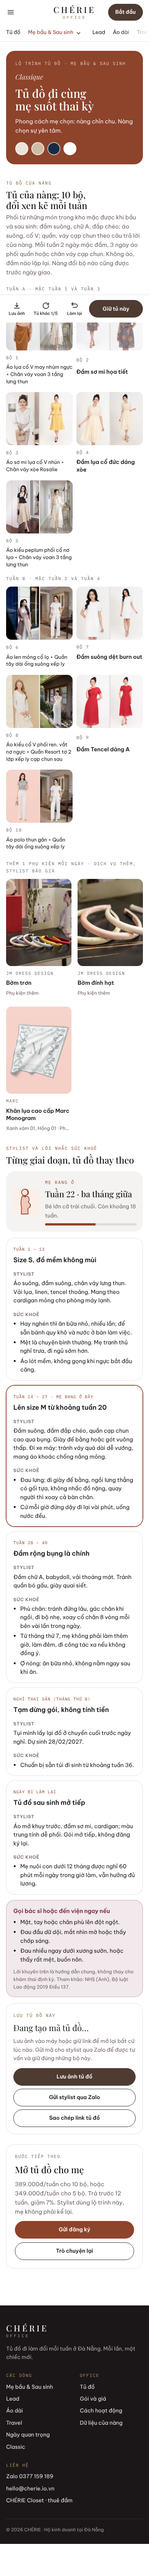
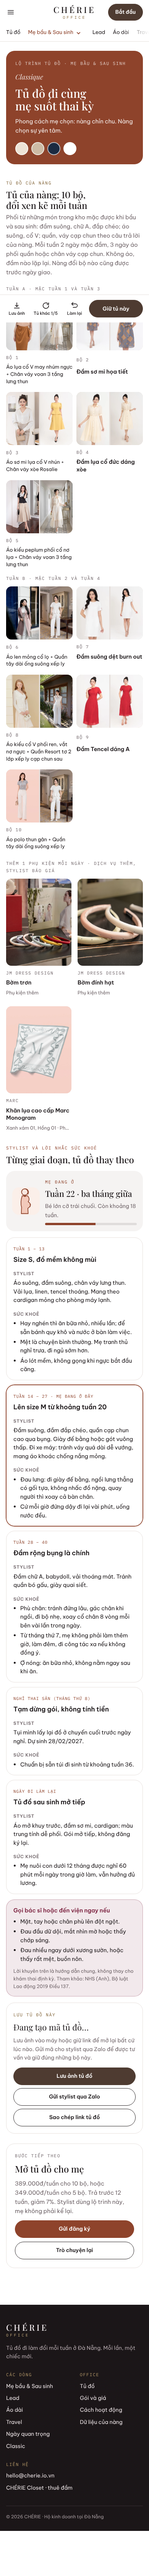
/mom: sửa bìa vỡ (trùng lớp .deck), ảnh nét 1400px, bìa chữ trên nền giấy; gỡ số Zalo khỏi trang chính
Claude-Session: https://claude.ai/code/session_01222c8SJd7WhSQqiWbhbLVs

diff --git a/404.html b/404.html
@@ -701,7 +701,7 @@ footer .base{margin-top:36px;padding-top:18px;border-top:1px solid #3A3033;font-
 <p>Khi nàng làm trắc nghiệm hay xem tủ đồ, CHÉRIE Office ghi lại câu trả lời và các thao tác trên trang (xem món nào, dừng ở câu nào, bấm nút nào). Phần này lưu ẩn danh bằng một mã ngẫu nhiên trên trình duyệt, không có tên hay số điện thoại.</p>
 <p style="margin-top:12px">Tụi mình dùng nó để chọn tủ đồ hợp với nàng hơn, biết món nào cần mua thêm, câu hỏi nào khó hiểu, và giá gói nào hợp lý.</p>
 <p style="margin-top:12px">Tên và số Zalo chỉ được lưu khi nàng tự để lại và đồng ý, hoặc khi đăng ký gói. Tụi mình không bán hay chia sẻ dữ liệu cho bên ngoài, và không gửi tin nhắn tự động khi chưa có người của tiệm xem.</p>
-<p style="margin-top:12px">Dữ liệu ẩn danh được giữ tối đa 24 tháng. Muốn xem hoặc xoá dữ liệu của mình, nhắn Zalo 0377 159 189 hoặc email hello@cherie.io.vn.</p>
+<p style="margin-top:12px">Dữ liệu ẩn danh được giữ tối đa 24 tháng. Muốn xem hoặc xoá dữ liệu của mình, email hello@cherie.io.vn.</p>
 </div></main>
 
 <!-- ============ GÓI VÀ GIÁ ============ -->
@@ -773,7 +773,7 @@ footer .base{margin-top:36px;padding-top:18px;border-top:1px solid #3A3033;font-
       <div class="c"><a class="logo" href="#" style="align-items:flex-start"><span class="w" style="color:#F2ECEE">CHÉRIE</span><span class="s" style="color:#C9AE7E">OFFICE</span></a><p style="color:#B3A8AC;max-width:28em;margin-top:8px">Tủ đồ đi làm đổi mỗi tuần ở Đà Nẵng. Mỗi lần, một chiếc mới.</p></div>
       <div class="c"><span class="k">Các dòng</span><div id="footLines" style="display:grid;gap:9px"></div></div>
       <div class="c"><span class="k">Office</span><a href="#tu-do">Tủ đồ</a><a href="#goi-va-gia">Gói và giá</a><a href="#cach-hoat-dong">Cách hoạt động</a><a href="#chinh-sach">Dữ liệu của nàng</a></div>
-      <div class="c"><span class="k">Liên hệ</span><span class="num">Zalo 0377 159 189</span><span>hello@cherie.io.vn</span><a href="https://cherie.io.vn" target="_blank" rel="noopener">CHÉRIE Closet · thuê đầm</a></div>
+      <div class="c"><span class="k">Liên hệ</span><span>hello@cherie.io.vn</span><a href="https://cherie.io.vn" target="_blank" rel="noopener">CHÉRIE Closet · thuê đầm</a></div>
     </div>
     <div class="base">© 2026 CHÉRIE · Hộ kinh doanh tại Đà Nẵng</div>
   </div>
@@ -832,7 +832,7 @@ function makeTuImage(c){
       g.fillStyle=esp;g.font="600 22px "+B;g.fillText("Bộ "+(i+1)+(bo.length===10?(i<5?" · Tuần A":" · Tuần B"):""),x,y+ih+34);
       g.fillStyle=mut;g.font="400 19px "+B;wrapTxt(g,o.map(function(s){return s.ten}).join(" + "),x,y+ih+64,cw,26,2)});
     g.textAlign="center";g.fillStyle=esp;g.font="italic 400 28px "+D;g.fillText("Mỗi lần, một chiếc mới.",W/2,H-78);
-    g.fillStyle=mut;g.font="400 20px "+B;g.fillText("office.cherie.io.vn · Zalo 0377 159 189",W/2,H-42);
+    g.fillStyle=mut;g.font="400 20px "+B;g.fillText("office.cherie.io.vn",W/2,H-42);
     return new Promise(function(ok){cv.toBlob(function(b){ok(b)},"image/jpeg",0.9)})})}
 function saveTuImage(c){
   saveMsg("Đang tạo ảnh tủ đồ…");
@@ -936,7 +936,7 @@ function momMenu(open){var m=$("#momMenu"),b=$("#momDdb");if(!m||!b)return;if(op
   if(open){var r=b.getBoundingClientRect(),w=Math.min(300,innerWidth-24);m.style.width=w+"px";m.style.top=(r.bottom+6)+"px";m.style.left=Math.max(12,Math.min(innerWidth-w-12,r.right-w/2-10))+"px"}}
 function renderChrome(){
   $("#catNav").innerHTML='<a href="#tu-do" data-nav="tu-do">Tủ đồ</a>'+LINES.map(function(l){return l.mom?'<a href="#nhom-'+l.slug+'" data-nav="nhom-'+l.slug+'" class="mom">'+esc(l.k)+'</a><button type="button" class="ddb" id="momDdb" aria-expanded="false" aria-controls="momMenu" aria-label="Mục con của Mẹ bầu &amp; Sau sinh"><svg viewBox="0 0 12 12" aria-hidden="true"><path d="M2.5 4.5 6 8l3.5-3.5" fill="none" stroke="currentColor" stroke-width="1.6" stroke-linecap="round"/></svg></button>':'<a href="#nhom-'+l.slug+'" data-nav="nhom-'+l.slug+'">'+esc(l.k)+'</a>'}).join("")+'<a href="#goi-va-gia" data-nav="goi-va-gia">Gói và giá</a>';
-  $("#drawerLinks").innerHTML='<a href="#">Trang chủ</a><a href="#tu-do">Tủ đồ</a>'+LINES.map(function(l){return '<a href="#nhom-'+l.slug+'"'+(l.mom?' class="mom"':'')+'>'+esc(l.k)+'</a>'+(l.mom?MOM_SUB.map(function(x){return '<a class="sub" href="'+x[0]+'">'+x[1]+'</a>'}).join(""):"")}).join("")+'<a href="#goi-va-gia">Gói và giá</a>'+'<a href="#cach-hoat-dong">Cách hoạt động</a><a href="#chinh-sach">Dữ liệu của nàng</a><div class="dcta"><a class="pill" href="#chon-nhom">Tìm tủ đồ của nàng</a><a class="pill ghost" href="https://zalo.me/0377159189" target="_blank" rel="noopener">Nhắn Zalo 0377 159 189</a></div>';drawerSaved();
+  $("#drawerLinks").innerHTML='<a href="#">Trang chủ</a><a href="#tu-do">Tủ đồ</a>'+LINES.map(function(l){return '<a href="#nhom-'+l.slug+'"'+(l.mom?' class="mom"':'')+'>'+esc(l.k)+'</a>'+(l.mom?MOM_SUB.map(function(x){return '<a class="sub" href="'+x[0]+'">'+x[1]+'</a>'}).join(""):"")}).join("")+'<a href="#goi-va-gia">Gói và giá</a>'+'<a href="#cach-hoat-dong">Cách hoạt động</a><a href="#chinh-sach">Dữ liệu của nàng</a><div class="dcta"><a class="pill" href="#chon-nhom">Tìm tủ đồ của nàng</a></div>';drawerSaved();
   $("#footLines").innerHTML=LINES.map(function(l){return '<a href="#nhom-'+l.slug+'">'+esc(l.k)+'</a>'}).join("");
   var words=["Giặt hấp hằng tuần","Giao văn phòng miễn phí","Đổi size trong 48 giờ","Tag đếm số lần mặc","Stylist chọn theo gu","Mỗi lần, một chiếc mới"];
   var one=words.map(function(w){return '<span>'+esc(w)+'</span><i>·</i>'}).join("");$("#marq").innerHTML=one+one;
@@ -970,7 +970,7 @@ function faq(l){
     ["Giao ở đâu?","Văn phòng khu trung tâm Đà Nẵng sáng thứ 2, miễn phí. Hoặc nhà riêng chiều chủ nhật, 35.000đ/tuần khu trung tâm."],
     ["Làm hư đồ thì sao?","Vết bẩn thường, sứt chỉ: tụi mình lo. Rách lớn hoặc mất: tính theo giá trị bồi thường ghi trên tag, trừ vào cọc."]];
   if(l.mom)base.unshift(["Bụng lớn nhanh quá thì sao?","Nhắn Zalo cho tụi mình. Size mới tới ở chuyến giao kế tiếp, không tính thêm tiền."],["Nghỉ sinh có phải trả tiền không?","Không. Mẹ trả đồ và tạm dừng gói. Khi đi làm lại, gói mở tiếp với tủ đồ sau sinh."]);
-  if(!l.monthly)base.splice(1,1,["Đặt thế nào?","Làm trắc nghiệm ngắn rồi gửi đăng ký, hoặc nhắn Zalo 0377 159 189 kèm ngày cần đồ."]);
+  if(!l.monthly)base.splice(1,1,["Đặt thế nào?","Làm trắc nghiệm ngắn rồi gửi đăng ký kèm ngày cần đồ. Stylist liên hệ lại trong ngày."]);
   return base}
 
 /* ---------- trắc nghiệm phong cách (5 dòng, không áp dụng Mẹ bầu & Sau sinh) ----------
@@ -1254,7 +1254,7 @@ function offerHtml(l,a){
   alt.push(['Thuê thử 1 set trước','Ngày quan trọng · từ 199.000đ/set','Mặc thử chất lượng đồ và cách tụi mình giặt hấp cho một buổi họp, phỏng vấn. Thấy ổn rồi mở gói tuần, trừ lại 199.000đ.','#nhom-ngay-quan-trong']);
   if(l.k!=="Áo dài"&&(a.nganh==="Ngân hàng, tài chính"||a.nganh==="Giáo viên, giảng viên"||a.nganh==="Cơ quan nhà nước"))alt.push(['Chỉ cần đồ thứ 2','Áo dài · 139.000đ/tuần · 1 bộ','Nơi làm mặc áo dài đầu tuần thì gói này nhẹ hơn nhiều.','#nhom-ao-dai']);
   if((a.doiSong||[]).indexOf("Hay đi công tác")>-1)alt.push(['Chỉ cần cho chuyến công tác','Travel · 690.000đ/chuyến 5 ngày','Trọn vali cho một chuyến, trả lại khi về.','#nhom-travel']);
-  alt.push(['Rủ đồng nghiệp cùng tòa nhà','Nhóm 3 người · giảm 10% mỗi người','Một tuyến giao chung nên tụi mình bớt được chi phí. Nhắn Zalo để giữ suất nhóm.','https://zalo.me/0377159189']);
+  alt.push(['Rủ đồng nghiệp cùng tòa nhà','Nhóm 3 người · giảm 10% mỗi người','Một tuyến giao chung nên tụi mình bớt được chi phí. Ghi tên đồng nghiệp khi đăng ký để giữ suất nhóm.','#dang-ky']);
   return '<div class="cta-box"><span class="k muted">Bước tiếp theo</span><h2>Giữ trọn tủ '+esc(l.k)+' này</h2><p class="muted">'+vnd(l.price)+' '+esc(l.unit)+(l.monthly?'. Trả trước 12 tuần, giảm 7%. Tuần đầu giao đúng các bộ bên trên.':'.')+'</p>'+
     '<div class="row"><a class="pill" href="#dang-ky" data-su="giu_tu">Giữ tủ này</a><button type="button" class="pill ghost" id="priceWorry" aria-expanded="false" aria-controls="altBox">Giá hơi cao với mình</button></div>'+
     '<div id="altBox" hidden><p style="margin-top:6px">Tụi mình hiểu. Nàng có thể bắt đầu nhẹ hơn:</p><div class="alts">'+alt.map(function(x){return '<a class="alt" href="'+x[3]+'"'+(x[4]?' data-pick="'+esc(x[4])+'"'+(x[5]?' data-goi="'+x[5]+'"':''):'')+(/^https/.test(x[3])?' target="_blank" rel="noopener"':'')+'><b>'+esc(x[0])+'</b><span class="k" style="color:var(--gold)">'+esc(x[1])+'</span><span class="muted">'+esc(x[2])+'</span></a>'}).join("")+'</div></div></div>'}
@@ -1474,7 +1474,7 @@ function openSaved(ma,xem){
     h+=bo.length?capsuleHtml(l,{bo:bo,N:boSize(l)===10&&bo.length===10?10:bo.length,mua:mua,muon:false,pk:[]}):'<p class="muted" style="margin-top:20px">Những món trong tủ này không còn trong kho. Nhắn stylist để chọn lại nhé.</p>';
     h+='<div class="cta-box"><span class="k muted">Bước tiếp theo</span><h2>Giữ tủ '+esc(l.k)+' này</h2><div class="row"><a class="pill" href="#dang-ky" data-su="giu_tu" data-pick="'+esc(l.k)+'">Giữ tủ này</a><a class="pill ghost" href="#chan-doan-'+(l.mom?"me":l.slug)+'">Làm lại trắc nghiệm</a></div></div>';
     $("#res").innerHTML=h})
-  .catch(function(e){$("#res").innerHTML='<h1>Chưa mở được tủ đồ</h1><p class="muted">'+esc(e.message||"Mạng chậm")+'. Thử tải lại trang, hoặc nhắn Zalo 0377 159 189 kèm mã '+esc(ma)+'.</p><p style="margin-top:16px"><a class="pill" href="'+ZALO+'" target="_blank" rel="noopener">Nhắn Zalo</a></p>'})}
+  .catch(function(e){$("#res").innerHTML='<h1>Chưa mở được tủ đồ</h1><p class="muted">'+esc(e.message||"Mạng chậm")+'. Thử tải lại trang sau ít phút. Mã tủ đồ của nàng: '+esc(ma)+'.</p><p style="margin-top:16px"><button type="button" class="pill" onclick="location.reload()">Tải lại trang</button></p>'})}
 function renderMomResult(r){
   var T=TYPES[r.type]||TYPES["Mềm mại"],a=r.a,plan=momPlan(a);
   var h='<div class="typecard" style="background:#8E432B"><span class="k" style="color:rgba(255,255,255,.75)">Lộ trình tủ đồ · Mẹ bầu &amp; Sau sinh</span><span class="fr-name">'+esc(T.fr)+'</span><h1>'+esc(a.giaiDoan==="Đang mang bầu"?"Tủ đồ đi cùng mẹ suốt thai kỳ":"Tủ đồ cho ngày mẹ quay lại công sở")+'</h1><p>Phong cách mẹ chọn: '+esc(T.ten.replace("Nàng","nàng").toLowerCase())+'. '+esc(T.mo.split(":")[0])+'.</p><div class="pal">'+T.pal.map(function(c){return '<i style="background:'+c+'"></i>'}).join("")+'</div></div>';
@@ -1501,7 +1501,7 @@ document.addEventListener("click",function(e){var rd=e.target.closest("[data-red
 function onSaveClick(e){var sv=e.target.closest("[data-save]");if(sv&&CUR){var k=sv.dataset.save,c=CUR,sk=function(v){post({fn:"webSuKien",vid:VID,maKQ:c.ma||"",su:"luu_tu",giaTri:v,trang:location.hash.slice(1,40)}).catch(function(){})};
     if(k==="anh"){saveTuImage(c);remember(c);sk("Ảnh")}
     else if(k==="link"){copyText(tuLink(c.ma,c.xem)).then(function(){saveMsg("Đã sao chép link. Dán vào Ghi chú hoặc gửi cho chính mình qua Zalo để mở lại.")},function(){saveMsg(tuLink(c.ma,c.xem))});remember(c);sk("Link")}
-    else if(k==="zalo"){var t="Chào CHÉRIE, mình vừa có tủ đồ mã "+c.ma+" (dòng "+c.dong+"). Nhờ stylist tư vấn giúp mình: "+tuLink(c.ma,c.xem);var w=window.open(ZALO,"_blank","noopener");copyText(t).then(function(){saveMsg("Đã chép sẵn lời nhắn kèm mã "+c.ma+". Mở Zalo rồi dán vào khung chat là xong.")},function(){saveMsg("Nhắn Zalo 0377 159 189 kèm mã "+c.ma+".")});remember(c);sk("Zalo")}
+    else if(k==="zalo"){var t="Chào CHÉRIE, mình vừa có tủ đồ mã "+c.ma+" (dòng "+c.dong+"). Nhờ stylist tư vấn giúp mình: "+tuLink(c.ma,c.xem);var w=window.open(ZALO,"_blank","noopener");copyText(t).then(function(){saveMsg("Đã chép sẵn lời nhắn kèm mã "+c.ma+". Mở Zalo rồi dán vào khung chat là xong.")},function(){saveMsg("Mở Zalo CHÉRIE rồi gửi kèm mã "+c.ma+".")});remember(c);sk("Zalo")}
     return true}
   if(e.target.closest("[data-su=giu_tu]")){suKien("giu_tu");if(CUR)ss("of-tu-chon",{ma:CUR.ma||"",xem:CUR.xem||"",dong:CUR.dong,bo:boStr(CUR.bo)})}}
 $("#sbar").addEventListener("click",function(e){if(!location.hash.match(/^#(ket-qua|tu-)/))return;if(e.target.closest("[data-save]")&&!$("#saveBar")){return}onSaveClick(e)});
@@ -1514,7 +1514,7 @@ function detail(id){track("xem_mon",id);
   $("#pd").innerHTML='<div><a class="backlink" href="#tu-do">← Quay lại tủ đồ</a><div class="gal">'+shots+'</div>'+(p.length>1?'<div class="galnav rnav" style="margin-top:10px"><button type="button" data-gal="-1" aria-label="Ảnh trước"><svg viewBox="0 0 24 24"><path d="M15 5l-7 7 7 7"/></svg></button><span class="small muted">'+Math.min(p.length,4)+' ảnh · lướt để xem</span><button type="button" data-gal="1" aria-label="Ảnh sau"><svg viewBox="0 0 24 24"><path d="M9 5l7 7-7 7"/></svg></button></div>':'')+'</div><div class="pinfo"><span class="k muted">'+esc(s.brand||"CHÉRIE Office")+'</span><h1 style="font-size:32px">'+esc(s.ten)+'</h1><span class="muted">'+esc(s.mau||"")+'</span>'+
     '<div class="sizes"><span class="lb">Size có sẵn</span>'+["S","M","L","XL"].map(function(z){return '<span class="sz'+(have.indexOf(z)>-1?'':' off')+'">'+z+'</span>'}).join("")+'</div>'+
     '<div class="inplan"><span class="k" style="color:var(--gold)">Có trong gói '+esc(l.k)+'</span><span style="font-size:14px">Từ '+vnd(giaTu(l))+(l.monthly?'/tuần':' '+esc(l.unit))+'. Muốn có bộ này trong tủ, làm trắc nghiệm và thả tim nó, stylist sẽ ưu tiên.</span></div>'+
-    '<a class="pill block" href="'+qh+'">Muốn mặc bộ này? Để stylist chọn cho nàng</a><a class="pill ghost block" href="https://zalo.me/0377159189" target="_blank" rel="noopener">Hỏi stylist qua Zalo</a><a class="ul" href="#nhom-'+l.slug+'" style="justify-self:start">Xem dòng '+esc(l.k)+'</a>'+
+    '<a class="pill block" href="'+qh+'">Muốn mặc bộ này? Để stylist chọn cho nàng</a><a class="ul" href="#nhom-'+l.slug+'" style="justify-self:start">Xem dòng '+esc(l.k)+'</a>'+
     (p.length&&s.brand?'<p class="muted" style="font-size:13px">Ảnh mẫu của '+esc(s.brand)+'. Ảnh tụi mình tự chụp đang được cập nhật.</p>':'')+
     '<div class="dl">'+(s.brand?'<div><span>Thương hiệu</span><span>'+esc(s.brand)+'</span></div>':'')+'<div><span>Mã đồ</span><span class="num">'+esc(s.id)+'</span></div><div><span>Giặt</span><span>Giặt hấp tại CHÉRIE Care</span></div></div></div>'}
 
@@ -1561,7 +1561,7 @@ function submit(){
     ga("dang_ky_goi",{goi:c.ten,value:+c.tot||0,currency:"VND"});ss("of-dk-done",{ma:x.ma||"",ten:body.ten,zalo:body.zalo,goi:c.ten,tot:c.tot,coc:c.coc||0,giao:giaoText(),nha:picked("ship")==="Nhà riêng",pv:pvi,maKQ:(rr&&rr.maKQ)||(tc&&tc.ma)||"",xem:(rr&&rr.xem)||(tc&&tc.xem)||"",monthly:!!c.l.monthly});
     try{sessionStorage.removeItem("of-result")}catch(e){}
     next.disabled=false;next.textContent="Gửi đăng ký";location.hash="da-dang-ky";
-  }).catch(function(e){next.disabled=false;next.textContent="Gửi lại";$("#sent").innerHTML='<b>Chưa gửi được.</b><span class="muted">'+esc(e.message||"Mạng chậm")+'. Thử lại, hoặc nhắn Zalo 0377 159 189.</span>';$("#sent").hidden=false})}
+  }).catch(function(e){next.disabled=false;next.textContent="Gửi lại";$("#sent").innerHTML='<b>Chưa gửi được.</b><span class="muted">'+esc(e.message||"Mạng chậm")+'. Thông tin nàng nhập vẫn còn, bấm Gửi lại sau ít phút.</span>';$("#sent").hidden=false})}
 next.addEventListener("click",function(){if(step===4){submit();return}if(check(step))show(step+1)});
 back.addEventListener("click",function(){show(step-1)});
 form.addEventListener("change",function(ev){var e=$("#e"+step);if(e)e.hidden=true;if(ev.target.name==="line")goiOpts();if(ev.target.name==="ship")shipToggle();$("#dueWrap").hidden=(picked("line")!==MOM)});
@@ -1594,7 +1594,7 @@ document.addEventListener("click",function(e){var rb=e.target.closest("[data-rai
 function sbar(id){var b=$("#sbar"),h="",l=null;
   if(id==="nhom")l=bySlug(decodeURIComponent(location.hash.slice(6)))||null;
   if(id==="sp"){var it=DATA.sp.filter(function(x){return x.id===location.hash.slice(4).toUpperCase()})[0];l=it?(byKey(it.loai)||LINES[5]):null}
-  var z='<a class="z" href="https://zalo.me/0377159189" target="_blank" rel="noopener" aria-label="Nhắn Zalo cho stylist"><svg viewBox="0 0 24 24" fill="none" stroke="currentColor" stroke-width="1.8" stroke-linecap="round" stroke-linejoin="round"><path d="M21 12a8 8 0 0 1-11.6 7.1L4 20l1.1-4.6A8 8 0 1 1 21 12z"/></svg></a>';
+  var z='';if(0)z='<a class="z" href="https://zalo.me/0377159189" target="_blank" rel="noopener" aria-label="Nhắn Zalo cho stylist"><svg viewBox="0 0 24 24" fill="none" stroke="currentColor" stroke-width="1.8" stroke-linecap="round" stroke-linejoin="round"><path d="M21 12a8 8 0 0 1-11.6 7.1L4 20l1.1-4.6A8 8 0 1 1 21 12z"/></svg></a>';
   if(l)h='<div class="p">'+esc(l.k)+'<b>Từ '+vnd(giaTu(l))+(l.monthly?'/tuần':' '+esc(l.unit.split(" ")[0]))+'</b></div>'+z+'<a class="pill" href="'+(l.mom?"#chan-doan-me":"#chan-doan-"+l.slug)+'">Bắt đầu</a>';
   else if(id==="tu-do")h='<div class="p">Thích bộ nào?<b>Để stylist chọn cho nàng</b></div>'+z+'<a class="pill" href="#chon-nhom">Bắt đầu</a>';
   else if(id==="ket-qua")h=tuActs();
@@ -1602,7 +1602,7 @@ function sbar(id){var b=$("#sbar"),h="",l=null;
   b.innerHTML=h;document.body.classList.toggle("has-sbar",!!h)}
 function view(id){sbar(id);document.querySelectorAll(".view").forEach(function(v){v.hidden=v.id!=="v-"+id});var f=(id==="quiz"||id==="chat");document.querySelector("footer.site").hidden=f;document.body.classList.toggle("focus",f)}
 /* tự nhận bản website mới: trang mở lâu vẫn chuyển sang bản mới ở lần chuyển trang kế tiếp (không ngắt trắc nghiệm, đăng ký) */
-var VER="20261031171445",NEWV=false,VCHK=0;
+var VER="20261031222213",NEWV=false,VCHK=0;
 function chkVer(){if(VER==="dev"||Date.now()-VCHK<90000)return;VCHK=Date.now();try{fetch("ver.txt?t="+Date.now(),{cache:"no-store"}).then(function(r){return r.ok?r.text():""}).then(function(t){t=(t||"").trim();if(t&&t!==VER)NEWV=true}).catch(function(){})}catch(e){}}
 document.addEventListener("visibilitychange",function(){if(document.visibilityState==="visible")chkVer()});
 function route(){ga("page_view",{page_location:location.href,page_path:location.pathname+location.hash,page_title:document.title});

diff --git a/index.html b/index.html
@@ -701,7 +701,7 @@ footer .base{margin-top:36px;padding-top:18px;border-top:1px solid #3A3033;font-
 <p>Khi nàng làm trắc nghiệm hay xem tủ đồ, CHÉRIE Office ghi lại câu trả lời và các thao tác trên trang (xem món nào, dừng ở câu nào, bấm nút nào). Phần này lưu ẩn danh bằng một mã ngẫu nhiên trên trình duyệt, không có tên hay số điện thoại.</p>
 <p style="margin-top:12px">Tụi mình dùng nó để chọn tủ đồ hợp với nàng hơn, biết món nào cần mua thêm, câu hỏi nào khó hiểu, và giá gói nào hợp lý.</p>
 <p style="margin-top:12px">Tên và số Zalo chỉ được lưu khi nàng tự để lại và đồng ý, hoặc khi đăng ký gói. Tụi mình không bán hay chia sẻ dữ liệu cho bên ngoài, và không gửi tin nhắn tự động khi chưa có người của tiệm xem.</p>
-<p style="margin-top:12px">Dữ liệu ẩn danh được giữ tối đa 24 tháng. Muốn xem hoặc xoá dữ liệu của mình, nhắn Zalo 0377 159 189 hoặc email hello@cherie.io.vn.</p>
+<p style="margin-top:12px">Dữ liệu ẩn danh được giữ tối đa 24 tháng. Muốn xem hoặc xoá dữ liệu của mình, email hello@cherie.io.vn.</p>
 </div></main>
 
 <!-- ============ GÓI VÀ GIÁ ============ -->
@@ -773,7 +773,7 @@ footer .base{margin-top:36px;padding-top:18px;border-top:1px solid #3A3033;font-
       <div class="c"><a class="logo" href="#" style="align-items:flex-start"><span class="w" style="color:#F2ECEE">CHÉRIE</span><span class="s" style="color:#C9AE7E">OFFICE</span></a><p style="color:#B3A8AC;max-width:28em;margin-top:8px">Tủ đồ đi làm đổi mỗi tuần ở Đà Nẵng. Mỗi lần, một chiếc mới.</p></div>
       <div class="c"><span class="k">Các dòng</span><div id="footLines" style="display:grid;gap:9px"></div></div>
       <div class="c"><span class="k">Office</span><a href="#tu-do">Tủ đồ</a><a href="#goi-va-gia">Gói và giá</a><a href="#cach-hoat-dong">Cách hoạt động</a><a href="#chinh-sach">Dữ liệu của nàng</a></div>
-      <div class="c"><span class="k">Liên hệ</span><span class="num">Zalo 0377 159 189</span><span>hello@cherie.io.vn</span><a href="https://cherie.io.vn" target="_blank" rel="noopener">CHÉRIE Closet · thuê đầm</a></div>
+      <div class="c"><span class="k">Liên hệ</span><span>hello@cherie.io.vn</span><a href="https://cherie.io.vn" target="_blank" rel="noopener">CHÉRIE Closet · thuê đầm</a></div>
     </div>
     <div class="base">© 2026 CHÉRIE · Hộ kinh doanh tại Đà Nẵng</div>
   </div>
@@ -832,7 +832,7 @@ function makeTuImage(c){
       g.fillStyle=esp;g.font="600 22px "+B;g.fillText("Bộ "+(i+1)+(bo.length===10?(i<5?" · Tuần A":" · Tuần B"):""),x,y+ih+34);
       g.fillStyle=mut;g.font="400 19px "+B;wrapTxt(g,o.map(function(s){return s.ten}).join(" + "),x,y+ih+64,cw,26,2)});
     g.textAlign="center";g.fillStyle=esp;g.font="italic 400 28px "+D;g.fillText("Mỗi lần, một chiếc mới.",W/2,H-78);
-    g.fillStyle=mut;g.font="400 20px "+B;g.fillText("office.cherie.io.vn · Zalo 0377 159 189",W/2,H-42);
+    g.fillStyle=mut;g.font="400 20px "+B;g.fillText("office.cherie.io.vn",W/2,H-42);
     return new Promise(function(ok){cv.toBlob(function(b){ok(b)},"image/jpeg",0.9)})})}
 function saveTuImage(c){
   saveMsg("Đang tạo ảnh tủ đồ…");
@@ -936,7 +936,7 @@ function momMenu(open){var m=$("#momMenu"),b=$("#momDdb");if(!m||!b)return;if(op
   if(open){var r=b.getBoundingClientRect(),w=Math.min(300,innerWidth-24);m.style.width=w+"px";m.style.top=(r.bottom+6)+"px";m.style.left=Math.max(12,Math.min(innerWidth-w-12,r.right-w/2-10))+"px"}}
 function renderChrome(){
   $("#catNav").innerHTML='<a href="#tu-do" data-nav="tu-do">Tủ đồ</a>'+LINES.map(function(l){return l.mom?'<a href="#nhom-'+l.slug+'" data-nav="nhom-'+l.slug+'" class="mom">'+esc(l.k)+'</a><button type="button" class="ddb" id="momDdb" aria-expanded="false" aria-controls="momMenu" aria-label="Mục con của Mẹ bầu &amp; Sau sinh"><svg viewBox="0 0 12 12" aria-hidden="true"><path d="M2.5 4.5 6 8l3.5-3.5" fill="none" stroke="currentColor" stroke-width="1.6" stroke-linecap="round"/></svg></button>':'<a href="#nhom-'+l.slug+'" data-nav="nhom-'+l.slug+'">'+esc(l.k)+'</a>'}).join("")+'<a href="#goi-va-gia" data-nav="goi-va-gia">Gói và giá</a>';
-  $("#drawerLinks").innerHTML='<a href="#">Trang chủ</a><a href="#tu-do">Tủ đồ</a>'+LINES.map(function(l){return '<a href="#nhom-'+l.slug+'"'+(l.mom?' class="mom"':'')+'>'+esc(l.k)+'</a>'+(l.mom?MOM_SUB.map(function(x){return '<a class="sub" href="'+x[0]+'">'+x[1]+'</a>'}).join(""):"")}).join("")+'<a href="#goi-va-gia">Gói và giá</a>'+'<a href="#cach-hoat-dong">Cách hoạt động</a><a href="#chinh-sach">Dữ liệu của nàng</a><div class="dcta"><a class="pill" href="#chon-nhom">Tìm tủ đồ của nàng</a><a class="pill ghost" href="https://zalo.me/0377159189" target="_blank" rel="noopener">Nhắn Zalo 0377 159 189</a></div>';drawerSaved();
+  $("#drawerLinks").innerHTML='<a href="#">Trang chủ</a><a href="#tu-do">Tủ đồ</a>'+LINES.map(function(l){return '<a href="#nhom-'+l.slug+'"'+(l.mom?' class="mom"':'')+'>'+esc(l.k)+'</a>'+(l.mom?MOM_SUB.map(function(x){return '<a class="sub" href="'+x[0]+'">'+x[1]+'</a>'}).join(""):"")}).join("")+'<a href="#goi-va-gia">Gói và giá</a>'+'<a href="#cach-hoat-dong">Cách hoạt động</a><a href="#chinh-sach">Dữ liệu của nàng</a><div class="dcta"><a class="pill" href="#chon-nhom">Tìm tủ đồ của nàng</a></div>';drawerSaved();
   $("#footLines").innerHTML=LINES.map(function(l){return '<a href="#nhom-'+l.slug+'">'+esc(l.k)+'</a>'}).join("");
   var words=["Giặt hấp hằng tuần","Giao văn phòng miễn phí","Đổi size trong 48 giờ","Tag đếm số lần mặc","Stylist chọn theo gu","Mỗi lần, một chiếc mới"];
   var one=words.map(function(w){return '<span>'+esc(w)+'</span><i>·</i>'}).join("");$("#marq").innerHTML=one+one;
@@ -970,7 +970,7 @@ function faq(l){
     ["Giao ở đâu?","Văn phòng khu trung tâm Đà Nẵng sáng thứ 2, miễn phí. Hoặc nhà riêng chiều chủ nhật, 35.000đ/tuần khu trung tâm."],
     ["Làm hư đồ thì sao?","Vết bẩn thường, sứt chỉ: tụi mình lo. Rách lớn hoặc mất: tính theo giá trị bồi thường ghi trên tag, trừ vào cọc."]];
   if(l.mom)base.unshift(["Bụng lớn nhanh quá thì sao?","Nhắn Zalo cho tụi mình. Size mới tới ở chuyến giao kế tiếp, không tính thêm tiền."],["Nghỉ sinh có phải trả tiền không?","Không. Mẹ trả đồ và tạm dừng gói. Khi đi làm lại, gói mở tiếp với tủ đồ sau sinh."]);
-  if(!l.monthly)base.splice(1,1,["Đặt thế nào?","Làm trắc nghiệm ngắn rồi gửi đăng ký, hoặc nhắn Zalo 0377 159 189 kèm ngày cần đồ."]);
+  if(!l.monthly)base.splice(1,1,["Đặt thế nào?","Làm trắc nghiệm ngắn rồi gửi đăng ký kèm ngày cần đồ. Stylist liên hệ lại trong ngày."]);
   return base}
 
 /* ---------- trắc nghiệm phong cách (5 dòng, không áp dụng Mẹ bầu & Sau sinh) ----------
@@ -1254,7 +1254,7 @@ function offerHtml(l,a){
   alt.push(['Thuê thử 1 set trước','Ngày quan trọng · từ 199.000đ/set','Mặc thử chất lượng đồ và cách tụi mình giặt hấp cho một buổi họp, phỏng vấn. Thấy ổn rồi mở gói tuần, trừ lại 199.000đ.','#nhom-ngay-quan-trong']);
   if(l.k!=="Áo dài"&&(a.nganh==="Ngân hàng, tài chính"||a.nganh==="Giáo viên, giảng viên"||a.nganh==="Cơ quan nhà nước"))alt.push(['Chỉ cần đồ thứ 2','Áo dài · 139.000đ/tuần · 1 bộ','Nơi làm mặc áo dài đầu tuần thì gói này nhẹ hơn nhiều.','#nhom-ao-dai']);
   if((a.doiSong||[]).indexOf("Hay đi công tác")>-1)alt.push(['Chỉ cần cho chuyến công tác','Travel · 690.000đ/chuyến 5 ngày','Trọn vali cho một chuyến, trả lại khi về.','#nhom-travel']);
-  alt.push(['Rủ đồng nghiệp cùng tòa nhà','Nhóm 3 người · giảm 10% mỗi người','Một tuyến giao chung nên tụi mình bớt được chi phí. Nhắn Zalo để giữ suất nhóm.','https://zalo.me/0377159189']);
+  alt.push(['Rủ đồng nghiệp cùng tòa nhà','Nhóm 3 người · giảm 10% mỗi người','Một tuyến giao chung nên tụi mình bớt được chi phí. Ghi tên đồng nghiệp khi đăng ký để giữ suất nhóm.','#dang-ky']);
   return '<div class="cta-box"><span class="k muted">Bước tiếp theo</span><h2>Giữ trọn tủ '+esc(l.k)+' này</h2><p class="muted">'+vnd(l.price)+' '+esc(l.unit)+(l.monthly?'. Trả trước 12 tuần, giảm 7%. Tuần đầu giao đúng các bộ bên trên.':'.')+'</p>'+
     '<div class="row"><a class="pill" href="#dang-ky" data-su="giu_tu">Giữ tủ này</a><button type="button" class="pill ghost" id="priceWorry" aria-expanded="false" aria-controls="altBox">Giá hơi cao với mình</button></div>'+
     '<div id="altBox" hidden><p style="margin-top:6px">Tụi mình hiểu. Nàng có thể bắt đầu nhẹ hơn:</p><div class="alts">'+alt.map(function(x){return '<a class="alt" href="'+x[3]+'"'+(x[4]?' data-pick="'+esc(x[4])+'"'+(x[5]?' data-goi="'+x[5]+'"':''):'')+(/^https/.test(x[3])?' target="_blank" rel="noopener"':'')+'><b>'+esc(x[0])+'</b><span class="k" style="color:var(--gold)">'+esc(x[1])+'</span><span class="muted">'+esc(x[2])+'</span></a>'}).join("")+'</div></div></div>'}
@@ -1474,7 +1474,7 @@ function openSaved(ma,xem){
     h+=bo.length?capsuleHtml(l,{bo:bo,N:boSize(l)===10&&bo.length===10?10:bo.length,mua:mua,muon:false,pk:[]}):'<p class="muted" style="margin-top:20px">Những món trong tủ này không còn trong kho. Nhắn stylist để chọn lại nhé.</p>';
     h+='<div class="cta-box"><span class="k muted">Bước tiếp theo</span><h2>Giữ tủ '+esc(l.k)+' này</h2><div class="row"><a class="pill" href="#dang-ky" data-su="giu_tu" data-pick="'+esc(l.k)+'">Giữ tủ này</a><a class="pill ghost" href="#chan-doan-'+(l.mom?"me":l.slug)+'">Làm lại trắc nghiệm</a></div></div>';
     $("#res").innerHTML=h})
-  .catch(function(e){$("#res").innerHTML='<h1>Chưa mở được tủ đồ</h1><p class="muted">'+esc(e.message||"Mạng chậm")+'. Thử tải lại trang, hoặc nhắn Zalo 0377 159 189 kèm mã '+esc(ma)+'.</p><p style="margin-top:16px"><a class="pill" href="'+ZALO+'" target="_blank" rel="noopener">Nhắn Zalo</a></p>'})}
+  .catch(function(e){$("#res").innerHTML='<h1>Chưa mở được tủ đồ</h1><p class="muted">'+esc(e.message||"Mạng chậm")+'. Thử tải lại trang sau ít phút. Mã tủ đồ của nàng: '+esc(ma)+'.</p><p style="margin-top:16px"><button type="button" class="pill" onclick="location.reload()">Tải lại trang</button></p>'})}
 function renderMomResult(r){
   var T=TYPES[r.type]||TYPES["Mềm mại"],a=r.a,plan=momPlan(a);
   var h='<div class="typecard" style="background:#8E432B"><span class="k" style="color:rgba(255,255,255,.75)">Lộ trình tủ đồ · Mẹ bầu &amp; Sau sinh</span><span class="fr-name">'+esc(T.fr)+'</span><h1>'+esc(a.giaiDoan==="Đang mang bầu"?"Tủ đồ đi cùng mẹ suốt thai kỳ":"Tủ đồ cho ngày mẹ quay lại công sở")+'</h1><p>Phong cách mẹ chọn: '+esc(T.ten.replace("Nàng","nàng").toLowerCase())+'. '+esc(T.mo.split(":")[0])+'.</p><div class="pal">'+T.pal.map(function(c){return '<i style="background:'+c+'"></i>'}).join("")+'</div></div>';
@@ -1501,7 +1501,7 @@ document.addEventListener("click",function(e){var rd=e.target.closest("[data-red
 function onSaveClick(e){var sv=e.target.closest("[data-save]");if(sv&&CUR){var k=sv.dataset.save,c=CUR,sk=function(v){post({fn:"webSuKien",vid:VID,maKQ:c.ma||"",su:"luu_tu",giaTri:v,trang:location.hash.slice(1,40)}).catch(function(){})};
     if(k==="anh"){saveTuImage(c);remember(c);sk("Ảnh")}
     else if(k==="link"){copyText(tuLink(c.ma,c.xem)).then(function(){saveMsg("Đã sao chép link. Dán vào Ghi chú hoặc gửi cho chính mình qua Zalo để mở lại.")},function(){saveMsg(tuLink(c.ma,c.xem))});remember(c);sk("Link")}
-    else if(k==="zalo"){var t="Chào CHÉRIE, mình vừa có tủ đồ mã "+c.ma+" (dòng "+c.dong+"). Nhờ stylist tư vấn giúp mình: "+tuLink(c.ma,c.xem);var w=window.open(ZALO,"_blank","noopener");copyText(t).then(function(){saveMsg("Đã chép sẵn lời nhắn kèm mã "+c.ma+". Mở Zalo rồi dán vào khung chat là xong.")},function(){saveMsg("Nhắn Zalo 0377 159 189 kèm mã "+c.ma+".")});remember(c);sk("Zalo")}
+    else if(k==="zalo"){var t="Chào CHÉRIE, mình vừa có tủ đồ mã "+c.ma+" (dòng "+c.dong+"). Nhờ stylist tư vấn giúp mình: "+tuLink(c.ma,c.xem);var w=window.open(ZALO,"_blank","noopener");copyText(t).then(function(){saveMsg("Đã chép sẵn lời nhắn kèm mã "+c.ma+". Mở Zalo rồi dán vào khung chat là xong.")},function(){saveMsg("Mở Zalo CHÉRIE rồi gửi kèm mã "+c.ma+".")});remember(c);sk("Zalo")}
     return true}
   if(e.target.closest("[data-su=giu_tu]")){suKien("giu_tu");if(CUR)ss("of-tu-chon",{ma:CUR.ma||"",xem:CUR.xem||"",dong:CUR.dong,bo:boStr(CUR.bo)})}}
 $("#sbar").addEventListener("click",function(e){if(!location.hash.match(/^#(ket-qua|tu-)/))return;if(e.target.closest("[data-save]")&&!$("#saveBar")){return}onSaveClick(e)});
@@ -1514,7 +1514,7 @@ function detail(id){track("xem_mon",id);
   $("#pd").innerHTML='<div><a class="backlink" href="#tu-do">← Quay lại tủ đồ</a><div class="gal">'+shots+'</div>'+(p.length>1?'<div class="galnav rnav" style="margin-top:10px"><button type="button" data-gal="-1" aria-label="Ảnh trước"><svg viewBox="0 0 24 24"><path d="M15 5l-7 7 7 7"/></svg></button><span class="small muted">'+Math.min(p.length,4)+' ảnh · lướt để xem</span><button type="button" data-gal="1" aria-label="Ảnh sau"><svg viewBox="0 0 24 24"><path d="M9 5l7 7-7 7"/></svg></button></div>':'')+'</div><div class="pinfo"><span class="k muted">'+esc(s.brand||"CHÉRIE Office")+'</span><h1 style="font-size:32px">'+esc(s.ten)+'</h1><span class="muted">'+esc(s.mau||"")+'</span>'+
     '<div class="sizes"><span class="lb">Size có sẵn</span>'+["S","M","L","XL"].map(function(z){return '<span class="sz'+(have.indexOf(z)>-1?'':' off')+'">'+z+'</span>'}).join("")+'</div>'+
     '<div class="inplan"><span class="k" style="color:var(--gold)">Có trong gói '+esc(l.k)+'</span><span style="font-size:14px">Từ '+vnd(giaTu(l))+(l.monthly?'/tuần':' '+esc(l.unit))+'. Muốn có bộ này trong tủ, làm trắc nghiệm và thả tim nó, stylist sẽ ưu tiên.</span></div>'+
-    '<a class="pill block" href="'+qh+'">Muốn mặc bộ này? Để stylist chọn cho nàng</a><a class="pill ghost block" href="https://zalo.me/0377159189" target="_blank" rel="noopener">Hỏi stylist qua Zalo</a><a class="ul" href="#nhom-'+l.slug+'" style="justify-self:start">Xem dòng '+esc(l.k)+'</a>'+
+    '<a class="pill block" href="'+qh+'">Muốn mặc bộ này? Để stylist chọn cho nàng</a><a class="ul" href="#nhom-'+l.slug+'" style="justify-self:start">Xem dòng '+esc(l.k)+'</a>'+
     (p.length&&s.brand?'<p class="muted" style="font-size:13px">Ảnh mẫu của '+esc(s.brand)+'. Ảnh tụi mình tự chụp đang được cập nhật.</p>':'')+
     '<div class="dl">'+(s.brand?'<div><span>Thương hiệu</span><span>'+esc(s.brand)+'</span></div>':'')+'<div><span>Mã đồ</span><span class="num">'+esc(s.id)+'</span></div><div><span>Giặt</span><span>Giặt hấp tại CHÉRIE Care</span></div></div></div>'}
 
@@ -1561,7 +1561,7 @@ function submit(){
     ga("dang_ky_goi",{goi:c.ten,value:+c.tot||0,currency:"VND"});ss("of-dk-done",{ma:x.ma||"",ten:body.ten,zalo:body.zalo,goi:c.ten,tot:c.tot,coc:c.coc||0,giao:giaoText(),nha:picked("ship")==="Nhà riêng",pv:pvi,maKQ:(rr&&rr.maKQ)||(tc&&tc.ma)||"",xem:(rr&&rr.xem)||(tc&&tc.xem)||"",monthly:!!c.l.monthly});
     try{sessionStorage.removeItem("of-result")}catch(e){}
     next.disabled=false;next.textContent="Gửi đăng ký";location.hash="da-dang-ky";
-  }).catch(function(e){next.disabled=false;next.textContent="Gửi lại";$("#sent").innerHTML='<b>Chưa gửi được.</b><span class="muted">'+esc(e.message||"Mạng chậm")+'. Thử lại, hoặc nhắn Zalo 0377 159 189.</span>';$("#sent").hidden=false})}
+  }).catch(function(e){next.disabled=false;next.textContent="Gửi lại";$("#sent").innerHTML='<b>Chưa gửi được.</b><span class="muted">'+esc(e.message||"Mạng chậm")+'. Thông tin nàng nhập vẫn còn, bấm Gửi lại sau ít phút.</span>';$("#sent").hidden=false})}
 next.addEventListener("click",function(){if(step===4){submit();return}if(check(step))show(step+1)});
 back.addEventListener("click",function(){show(step-1)});
 form.addEventListener("change",function(ev){var e=$("#e"+step);if(e)e.hidden=true;if(ev.target.name==="line")goiOpts();if(ev.target.name==="ship")shipToggle();$("#dueWrap").hidden=(picked("line")!==MOM)});
@@ -1594,7 +1594,7 @@ document.addEventListener("click",function(e){var rb=e.target.closest("[data-rai
 function sbar(id){var b=$("#sbar"),h="",l=null;
   if(id==="nhom")l=bySlug(decodeURIComponent(location.hash.slice(6)))||null;
   if(id==="sp"){var it=DATA.sp.filter(function(x){return x.id===location.hash.slice(4).toUpperCase()})[0];l=it?(byKey(it.loai)||LINES[5]):null}
-  var z='<a class="z" href="https://zalo.me/0377159189" target="_blank" rel="noopener" aria-label="Nhắn Zalo cho stylist"><svg viewBox="0 0 24 24" fill="none" stroke="currentColor" stroke-width="1.8" stroke-linecap="round" stroke-linejoin="round"><path d="M21 12a8 8 0 0 1-11.6 7.1L4 20l1.1-4.6A8 8 0 1 1 21 12z"/></svg></a>';
+  var z='';if(0)z='<a class="z" href="https://zalo.me/0377159189" target="_blank" rel="noopener" aria-label="Nhắn Zalo cho stylist"><svg viewBox="0 0 24 24" fill="none" stroke="currentColor" stroke-width="1.8" stroke-linecap="round" stroke-linejoin="round"><path d="M21 12a8 8 0 0 1-11.6 7.1L4 20l1.1-4.6A8 8 0 1 1 21 12z"/></svg></a>';
   if(l)h='<div class="p">'+esc(l.k)+'<b>Từ '+vnd(giaTu(l))+(l.monthly?'/tuần':' '+esc(l.unit.split(" ")[0]))+'</b></div>'+z+'<a class="pill" href="'+(l.mom?"#chan-doan-me":"#chan-doan-"+l.slug)+'">Bắt đầu</a>';
   else if(id==="tu-do")h='<div class="p">Thích bộ nào?<b>Để stylist chọn cho nàng</b></div>'+z+'<a class="pill" href="#chon-nhom">Bắt đầu</a>';
   else if(id==="ket-qua")h=tuActs();
@@ -1602,7 +1602,7 @@ function sbar(id){var b=$("#sbar"),h="",l=null;
   b.innerHTML=h;document.body.classList.toggle("has-sbar",!!h)}
 function view(id){sbar(id);document.querySelectorAll(".view").forEach(function(v){v.hidden=v.id!=="v-"+id});var f=(id==="quiz"||id==="chat");document.querySelector("footer.site").hidden=f;document.body.classList.toggle("focus",f)}
 /* tự nhận bản website mới: trang mở lâu vẫn chuyển sang bản mới ở lần chuyển trang kế tiếp (không ngắt trắc nghiệm, đăng ký) */
-var VER="20261031171445",NEWV=false,VCHK=0;
+var VER="20261031222213",NEWV=false,VCHK=0;
 function chkVer(){if(VER==="dev"||Date.now()-VCHK<90000)return;VCHK=Date.now();try{fetch("ver.txt?t="+Date.now(),{cache:"no-store"}).then(function(r){return r.ok?r.text():""}).then(function(t){t=(t||"").trim();if(t&&t!==VER)NEWV=true}).catch(function(){})}catch(e){}}
 document.addEventListener("visibilitychange",function(){if(document.visibilityState==="visible")chkVer()});
 function route(){ga("page_view",{page_location:location.href,page_path:location.pathname+location.hash,page_title:document.title});

diff --git a/mom/index.html b/mom/index.html
@@ -47,31 +47,28 @@ p{margin:0}
 .btn:active{transform:scale(.98)}
 .btn.line{background:transparent;color:var(--ink);border-color:var(--ink)}
 /* đầu trang + thanh đọc */
-.hd{position:fixed;top:0;left:0;right:0;z-index:30;padding-top:env(safe-area-inset-top,0px);transition:background-color .25s,border-color .25s;border-bottom:1px solid transparent}
+.hd{position:fixed;top:0;left:0;right:0;z-index:30;padding-top:env(safe-area-inset-top,0px);background:var(--paper);border-bottom:1px solid var(--rule)}
 .hd .in{display:flex;align-items:center;justify-content:space-between;min-height:58px;padding:0 20px;max-width:1080px;margin:0 auto}
-.mast{display:inline-block;padding:10px 0;font-family:var(--serif);font-size:19px;letter-spacing:.32em;text-decoration:none;color:#FFF;line-height:1}
+.mast{display:inline-block;padding:10px 0;font-family:var(--serif);font-size:19px;letter-spacing:.32em;text-decoration:none;color:var(--ink);line-height:1}
 .mast small{display:block;font-family:var(--mono);font-size:9.5px;letter-spacing:.4em;margin-top:5px;opacity:.9}
-.hd .btn{min-height:44px;padding:0 18px;font-size:14px;background:#FFF;color:#1E1715;border-color:#FFF}
-.hd.solid{background:var(--paper);border-bottom-color:var(--rule)}
-.hd.solid .mast{color:var(--ink)}
-.hd.solid .btn{background:var(--accent);color:var(--on-accent);border-color:var(--accent)}
+.hd .btn{min-height:44px;padding:0 18px;font-size:14px}
 .prog{position:absolute;left:0;bottom:-1px;height:2px;background:var(--accent);width:0}
-/* bìa */
-.cover{position:relative;min-height:100svh;display:flex;align-items:flex-end;color:#FFF;background:#2A201C;overflow:hidden}
-.cover img{position:absolute;inset:0;width:100%;height:100%;object-fit:cover;object-position:50% 18%}
-.cover::after{content:"";position:absolute;inset:0;background:linear-gradient(180deg,rgba(18,12,10,.55) 0%,rgba(18,12,10,0) 22%,rgba(18,12,10,0) 38%,rgba(18,12,10,.78) 70%,rgba(18,12,10,.92) 100%)}
-.cover .tx{position:relative;z-index:1;width:100%;max-width:1080px;margin:0 auto;padding:0 20px calc(28px + env(safe-area-inset-bottom,0px))}
-.cover .issue{font-family:var(--mono);font-size:11px;letter-spacing:.2em;text-transform:uppercase;opacity:.9;display:flex;gap:10px;align-items:center}
-.cover .issue i{width:24px;height:1px;background:#FFF;opacity:.7}
-.cover h1{font-size:clamp(44px,11vw,92px);margin-top:14px;color:#FFF}
-.cover h1 em{font-style:italic;color:#F3C2AE}
-.cover .deck{font-size:17px;line-height:1.55;margin-top:14px;max-width:30em;color:rgba(255,255,255,.88)}
-.cover .lines{list-style:none;padding:0;margin:18px 0 0;display:grid;grid-template-columns:1fr 1fr;gap:10px 16px;border-top:1px solid rgba(255,255,255,.3);padding-top:14px}
-.cover .lines a{text-decoration:none;font-size:13.5px;line-height:1.35;display:block;min-height:44px}
-.cover .lines b{display:block;font-family:var(--mono);font-size:10.5px;letter-spacing:.14em;color:#F3C2AE;font-weight:500;margin-bottom:2px}
-.cover .cta{display:grid;grid-template-columns:1fr;gap:10px;margin-top:18px;max-width:440px}
-.cover .cta .btn{background:#FFF;color:#1E1715;border-color:#FFF}
-.cover .price{margin-top:12px;font-size:13.5px;color:rgba(255,255,255,.85)}
+/* bìa: chữ trên nền giấy, ảnh trong khung riêng (không chồng chữ lên ảnh) */
+.cover{padding:calc(76px + env(safe-area-inset-top,0px)) 0 8px}
+.cover .in{max-width:1080px;margin:0 auto;padding:0 20px;display:grid;gap:22px}
+.cover .issue{font-family:var(--mono);font-size:11px;letter-spacing:.2em;text-transform:uppercase;color:var(--accent);display:flex;gap:10px;align-items:center}
+.cover .issue i{width:24px;height:1px;background:var(--accent)}
+.cover h1{font-size:clamp(42px,11vw,72px);margin-top:12px}
+.cover h1 em{font-style:italic;color:var(--accent)}
+.cover .dek{font-size:17px;line-height:1.55;margin-top:12px;max-width:30em;color:var(--sub)}
+.cover .cta{display:grid;margin-top:18px;max-width:420px}
+.cover .price{margin-top:10px;font-size:14px;color:var(--sub)}
+.cover figure{margin:0;display:grid;gap:8px}
+.cover .fr{position:relative;aspect-ratio:4/5;max-height:62svh;width:100%;border-radius:6px;overflow:hidden;background:var(--img)}
+.cover .fr img{position:absolute;inset:0;width:100%;height:100%;object-fit:cover;object-position:50% 12%}
+.cover figcaption{font-size:13px;color:var(--sub);display:flex;justify-content:space-between;gap:10px}
+.cover figcaption b{font:500 10.5px var(--mono);letter-spacing:.14em;text-transform:uppercase;color:var(--accent)}
+@media (min-width:860px){.cover .in{grid-template-columns:minmax(0,1.1fr) minmax(0,.9fr);align-items:center;gap:48px}.cover .fr{max-height:78svh}}
 /* bảy chương: vuốt ngang, mỗi chương một cụm */
 .tabs{position:sticky;top:calc(58px + env(safe-area-inset-top,0px));z-index:20;background:var(--paper);border-bottom:1px solid var(--rule)}
 .tabs .in{display:flex;align-items:center;gap:6px;max-width:1080px;margin:0 auto;padding:0 12px 0 20px}
@@ -199,22 +196,16 @@ footer{padding:28px 20px calc(100px + env(safe-area-inset-bottom,0px));font-size
 <body>
 <header class="hd" id="hd"><div class="in"><a class="mast" href="/" aria-label="CHÉRIE Office, trang chủ">CHÉRIE<small>OFFICE</small></a><a class="btn js-chat" href="/#chan-doan-me">Trò chuyện</a></div><i class="prog" id="prog"></i></header>
 <main>
-<section class="cover">
-  <img id="coverImg" alt="Mẹ mặc đầm sơ mi cổ đức xếp ly màu đen đi làm" fetchpriority="high">
+<section class="cover"><div class="in">
   <div class="tx">
     <span class="issue">Số đặc biệt <i></i> Mẹ bầu &amp; Sau sinh</span>
     <h1>Chín tháng.<br>Ba size.<br><em>Một tủ đồ đi làm.</em></h1>
-    <p class="deck">Chuyện mặc gì đi làm khi bụng lớn mỗi tuần, và cách để mẹ không phải mua lại từ đầu.</p>
+    <p class="dek">Chuyện mặc gì đi làm khi bụng lớn mỗi tuần, và cách để mẹ không phải mua lại từ đầu.</p>
     <div class="cta"><a class="btn js-chat" href="/#chan-doan-me">Trò chuyện với stylist của mẹ</a></div>
     <p class="price">Từ 349.000đ/tuần · đổi size miễn phí</p>
-    <ul class="lines">
-      <li><a href="#c1" data-go="0"><b>01</b>Tuần 22, chiếc quần không cài được khuy</a></li>
-      <li><a href="#c2" data-go="1"><b>02</b>Những con số ít ai kể</a></li>
-      <li><a href="#c4" data-go="3"><b>04</b>Sáu chiếc đầm mặc suốt thai kỳ</a></li>
-      <li><a href="#c6" data-go="5"><b>06</b>Giá, nói thẳng</a></li>
-    </ul>
   </div>
-</section>
+  <figure><div class="fr"><img id="coverImg" alt="Mẹ mặc đầm sơ mi cổ đức xếp ly màu đen đi làm" fetchpriority="high"></div><figcaption><span>Đầm cổ đức xếp ly</span><b>IVY moda</b></figcaption></figure>
+</div></section>
 
 <article id="doc" aria-label="Bảy chương, vuốt ngang để đọc">
 <nav class="tabs" aria-label="Các chương"><div class="in"><div class="sc" id="tabs">
@@ -322,13 +313,13 @@ var ml=document.getElementById("moreLink");ml.href="/"+q+"#nhom-me-bau-sau-sinh"
 document.addEventListener("click",function(e){var a=e.target.closest(".js-chat");if(a)ga("bat_dau_tro_chuyen",{vi_tri:a.closest(".hd")?"dau_trang":a.closest(".sbar")?"thanh_duoi":a.closest(".pl")?"bang_gia":a.closest(".nx")?"cuoi_chuong":a.closest(".end")?"cuoi_trang":"bia"})});
 var D=window.OFFICE_DATA||{sp:[],anh:[]},img={};D.anh.forEach(function(a){(img[a.sp]=img[a.sp]||[]).push(a.src||a.th)});
 var esc=function(t){return String(t==null?"":t).replace(/[&<>"]/g,function(c){return {"&":"&amp;","<":"&lt;",">":"&gt;",'"':"&quot;"}[c]})};
-var cv=(img["OF-ID-001"]||[])[0];if(cv)document.getElementById("coverImg").src=cv;
+var hi=function(u){return String(u||"").replace("/thumab/400/","/thumab/1400/")};var cv=hi((img["OF-ID-001"]||[])[0]);if(cv)document.getElementById("coverImg").src=cv;
 /* lookbook: một ảnh lớn, chạm ảnh nhỏ để đổi */
 var L=[["OF-ID-001","Cổ đức, ly xếp từ eo. Đi họp vẫn chỉn chu."],["OF-ID-006","Dáng suông thẳng, không chạm bụng."],["OF-ID-013","Chấm bi nhỏ, cổ V mở. Khoác blazer là thành đồ họp."],["OF-ID-014","Vạt đắp chéo, cột dây nới theo bụng."],["OF-ID-017","Hoa nhí, vải mềm, ngày nóng vẫn nhẹ."],["OF-MD-004","Nhún dưới ngực, tùng xoè, bụng lớn vẫn vừa."]];
 var by={};D.sp.forEach(function(s){by[s.id]=s});L=L.filter(function(x){return by[x[0]]&&img[x[0]]});
 var lk=document.getElementById("lk");
 lk.innerHTML='<a class="big" id="lkA" href="#"><img id="lkI" alt=""></a><div class="cap" id="lkC" aria-live="polite"></div><div class="th" role="group" aria-label="Chọn chiếc đầm">'+L.map(function(x,i){var s=by[x[0]];return '<button type="button" data-k="'+i+'" aria-label="'+esc(s.ten)+'"><img src="'+esc(img[x[0]][0])+'" alt="" loading="lazy"></button>'}).join("")+'</div>';
-function pick(i){var x=L[i];if(!x)return;var s=by[x[0]],im=document.getElementById("lkI");im.src=img[x[0]][0];im.alt=s.ten+", "+s.brand;document.getElementById("lkA").href="/"+q+"#sp-"+s.id.toLowerCase();
+function pick(i){var x=L[i];if(!x)return;var s=by[x[0]],im=document.getElementById("lkI");im.src=hi(img[x[0]][0]);im.alt=s.ten+", "+s.brand;document.getElementById("lkA").href="/"+q+"#sp-"+s.id.toLowerCase();
   document.getElementById("lkC").innerHTML='<b>'+String(i+1).padStart(2,"0")+'/'+String(L.length).padStart(2,"0")+' · '+esc(s.brand)+'</b><span>'+esc(s.ten)+'</span><em>'+esc(x[1])+'</em>';
   lk.querySelectorAll(".th button").forEach(function(b){b.setAttribute("aria-pressed",String(+b.dataset.k===i))})}
 lk.addEventListener("click",function(e){var b=e.target.closest(".th button");if(b){pick(+b.dataset.k);setH()}});pick(0);
@@ -338,7 +329,7 @@ function wk(i){wb.forEach(function(b,k){b.setAttribute("aria-selected",String(k=
 cal.addEventListener("click",function(e){var b=e.target.closest(".wks button");if(b){wk(+b.dataset.w);ga("xem_moc_thai_ky",{moc:b.textContent})}});wk(0);
 /* header trong suốt trên bìa, đặc khi cuộn; thanh dưới có nút trò chuyện sau bìa */
 var hd=document.getElementById("hd"),pr=document.getElementById("prog"),sb=document.getElementById("sbar"),cov=document.querySelector(".cover");
-function onS(){var y=window.scrollY;hd.classList.toggle("solid",y>cov.offsetHeight-70);sb.classList.toggle("on",y>cov.offsetHeight*0.5)}
+var cta=document.querySelector(".cover .cta");function onS(){sb.classList.toggle("on",cta.getBoundingClientRect().bottom<0)}
 addEventListener("scroll",onS,{passive:true});onS();
 /* bảy chương vuốt ngang: cao theo chương đang xem, có nút chuyển chương thay cho vuốt */
 var deck=document.getElementById("deck"),sl=[].slice.call(deck.children),tabs=[].slice.call(document.querySelectorAll("#tabs button")),ct=document.getElementById("ct"),doc=document.getElementById("doc"),cur=-1;
